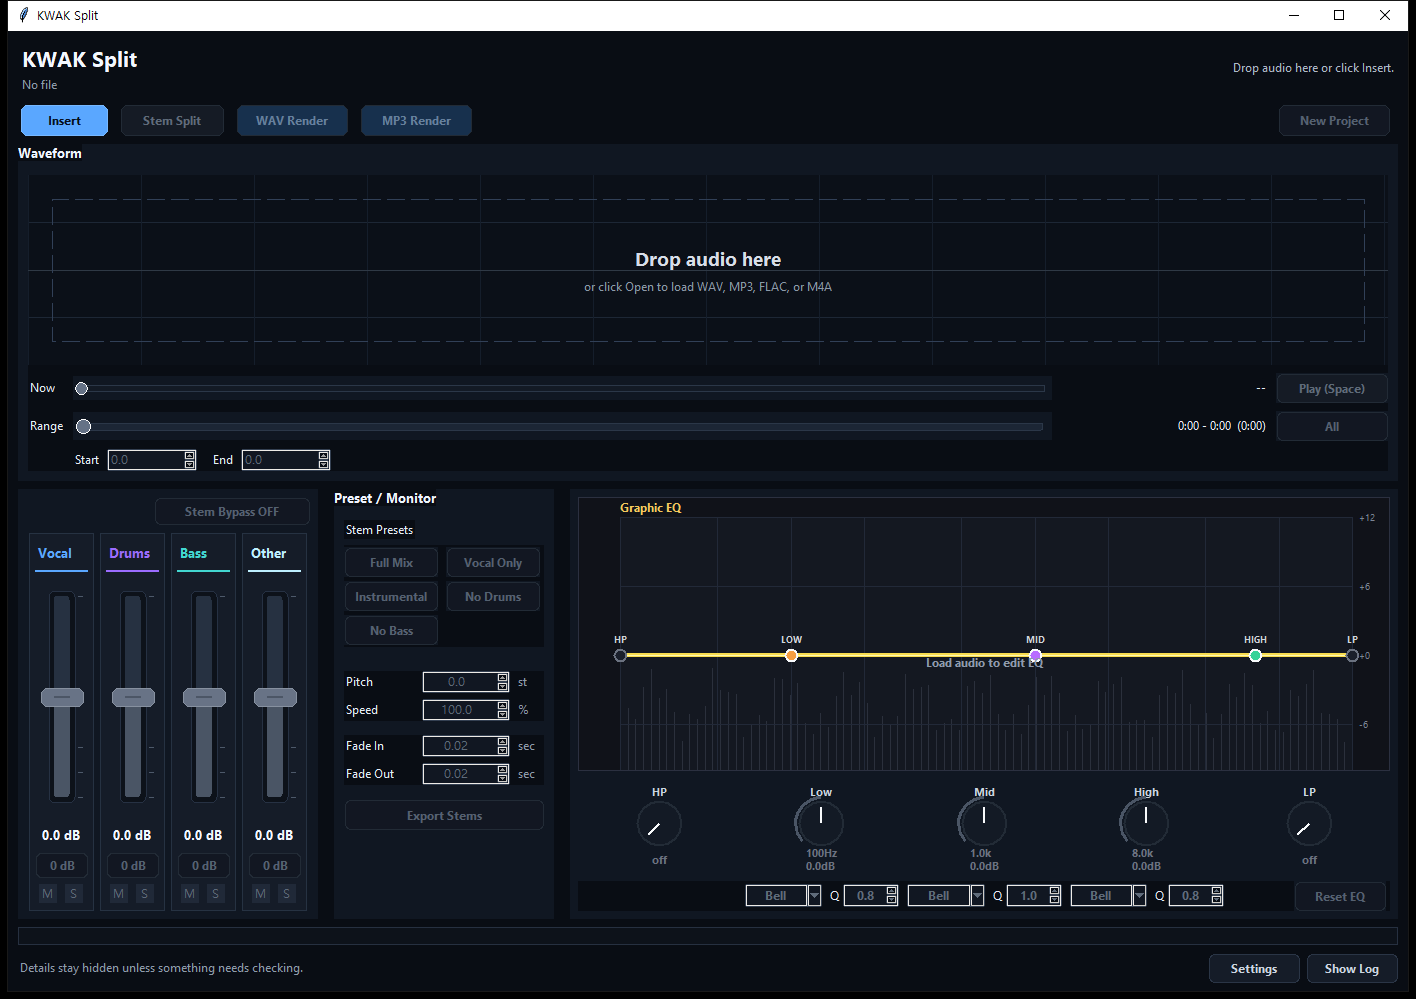
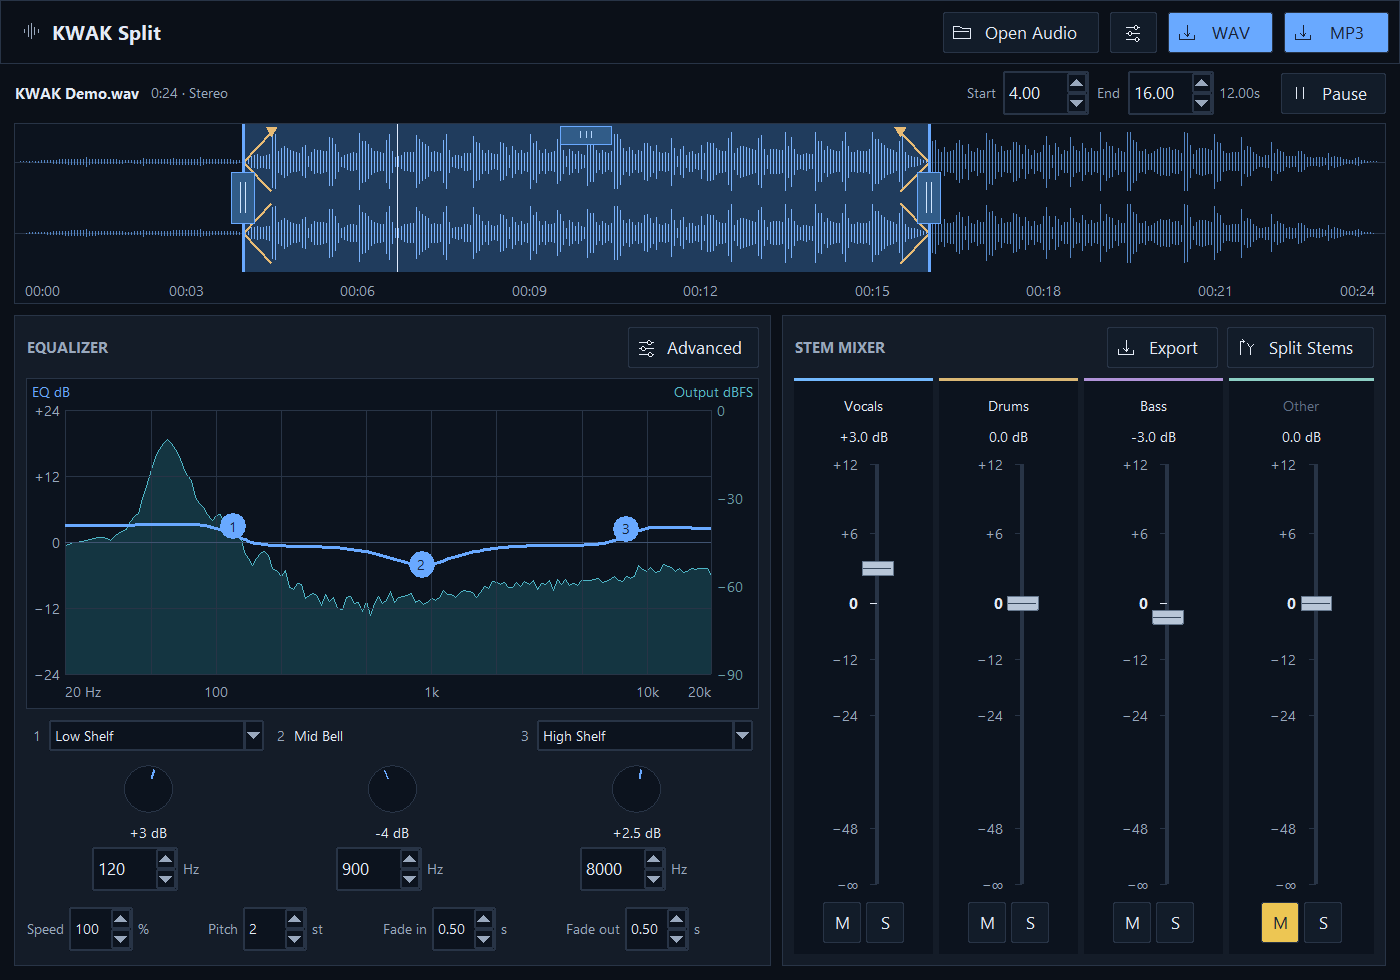
Match promo copy and screenshots to the current UI
Describe the three-band EQ, mute/solo mixer and four-track stem export
instead of five bands, presets, stem bypass and formant preservation, and
replace the old-UI screenshots with captures of the current compact UI.

diff --git a/promo/vercel-site/features.html b/promo/vercel-site/features.html
@@ -42,7 +42,7 @@
   <!-- ===== HERO ===== -->
   <div style="max-width:1200px; margin:0 auto; display:flex; flex-direction:column; align-items:center; text-align:center; padding:72px 32px 60px; gap:20px;">
     <div style="font:700 13px 'Space Mono',monospace; letter-spacing:.16em; border:2px solid #F2EFE6; padding:5px 14px; background:#221F1B;">★ EVERYTHING IN THE BOX</div>
-    <div style="font:400 84px/0.94 'Anton',sans-serif; max-width:1000px;">FOUR STEMS. FIVE BANDS.<br><span data-anim="sticker" style="background:#C8F542; color:#141414; padding:0 14px; box-shadow:6px 6px 0 #F2EFE6; display:inline-block;">ONE CLICK.</span></div>
+    <div style="font:400 84px/0.94 'Anton',sans-serif; max-width:1000px;">FOUR STEMS. THREE BANDS.<br><span data-anim="sticker" style="background:#C8F542; color:#141414; padding:0 14px; box-shadow:6px 6px 0 #F2EFE6; display:inline-block;">ONE CLICK.</span></div>
     <div style="font:500 19px/1.5 'Archivo',sans-serif; color:#A5A199; max-width:660px; margin-top:6px;">KWAK Split is a full stem workshop — separate, EQ, retune, retime, and export, all before you ever hit generate. Here's every knob.</div>
   </div>
 
@@ -62,11 +62,11 @@
       <div style="display:flex; flex-direction:column; gap:16px;">
         <div style="font:700 13px 'Space Mono',monospace; color:#C8F542; letter-spacing:.1em;">01 — SEPARATION</div>
         <div style="font:400 46px/1 'Anton',sans-serif;">STEM SPLIT</div>
-        <div style="font:500 16px/1.6 'Archivo',sans-serif; color:#A5A199; max-width:460px;">One pass pulls your track into four clean stems — vocal, drums, bass, and everything else. Each lands on its own fader, ready to solo, mute, or A/B against the full mix.</div>
+        <div style="font:500 16px/1.6 'Archivo',sans-serif; color:#A5A199; max-width:460px;">One pass pulls your track into four clean stems — vocal, drums, bass, and everything else. Each lands on its own fader with mute and solo, and Export saves all four as separate files.</div>
         <div style="display:flex; gap:10px; flex-wrap:wrap; margin-top:6px;">
           <div style="font:700 12px 'Space Mono',monospace; border:2px solid #F2EFE6; padding:6px 12px;">PER-STEM FADERS</div>
           <div style="font:700 12px 'Space Mono',monospace; border:2px solid #F2EFE6; padding:6px 12px;">MUTE &amp; SOLO</div>
-          <div style="font:700 12px 'Space Mono',monospace; border:2px solid #F2EFE6; padding:6px 12px;">STEM BYPASS A/B</div>
+          <div style="font:700 12px 'Space Mono',monospace; border:2px solid #F2EFE6; padding:6px 12px;">4-TRACK EXPORT</div>
           <div style="font:700 12px 'Space Mono',monospace; border:2px solid #F2EFE6; padding:6px 12px;">ON-DEVICE</div>
         </div>
       </div>
@@ -76,21 +76,21 @@
       </div>
     </div>
 
-    <!-- 02 GRAPHIC EQ (image / text) -->
+    <!-- 02 EQ (image / text) -->
     <div style="display:grid; grid-template-columns:1fr 1fr; gap:56px; align-items:center;">
       <div style="display:flex; flex-direction:column; gap:10px; align-items:center; order:1;">
         <img src="assets/kwak-eq.png" style="width:100%; border:2px solid #F2EFE6; box-shadow:10px 10px 0 #F2EFE6; display:block;"></img>
-        <div style="font:700 11px 'Space Mono',monospace; color:#8A867C; letter-spacing:.08em;">▚ GRAPHIC EQ — HP · LOW · MID · HIGH · LP</div>
+        <div style="font:700 11px 'Space Mono',monospace; color:#8A867C; letter-spacing:.08em;">▚ EQUALIZER — LOW · MID · HIGH</div>
       </div>
       <div style="display:flex; flex-direction:column; gap:16px; order:2;">
         <div style="font:700 13px 'Space Mono',monospace; color:#C8F542; letter-spacing:.1em;">02 — TONE</div>
-        <div style="font:400 46px/1 'Anton',sans-serif;">GRAPHIC EQ</div>
-        <div style="font:500 16px/1.6 'Archivo',sans-serif; color:#A5A199; max-width:460px;">Five movable bands with a live response curve. Carve mud out of a bassline, tame a harsh vocal, or brighten a stem — shape every render before it leaves the app.</div>
+        <div style="font:400 46px/1 'Anton',sans-serif;">3-BAND EQ</div>
+        <div style="font:500 16px/1.6 'Archivo',sans-serif; color:#A5A199; max-width:460px;">Low shelf or high-pass, mid bell, and high shelf or low-pass, with a live response curve over the playing spectrum. Carve mud out of a bassline, tame a harsh vocal, or brighten a stem while it plays.</div>
         <div style="display:flex; gap:10px; flex-wrap:wrap; margin-top:6px;">
           <div style="font:700 12px 'Space Mono',monospace; border:2px solid #F2EFE6; padding:6px 12px;">HP / LP FILTERS</div>
           <div style="font:700 12px 'Space Mono',monospace; border:2px solid #F2EFE6; padding:6px 12px;">BELL &amp; SHELF</div>
           <div style="font:700 12px 'Space Mono',monospace; border:2px solid #F2EFE6; padding:6px 12px;">ADJUSTABLE Q</div>
-          <div style="font:700 12px 'Space Mono',monospace; border:2px solid #F2EFE6; padding:6px 12px;">±12 dB / BAND</div>
+          <div style="font:700 12px 'Space Mono',monospace; border:2px solid #F2EFE6; padding:6px 12px;">±24 dB / BAND</div>
         </div>
       </div>
     </div>
@@ -100,17 +100,16 @@
       <div style="display:flex; flex-direction:column; gap:16px;">
         <div style="font:700 13px 'Space Mono',monospace; color:#C8F542; letter-spacing:.1em;">03 — TIME &amp; KEY</div>
         <div style="font:400 46px/1 'Anton',sans-serif;">PITCH &amp; SPEED</div>
-        <div style="font:500 16px/1.6 'Archivo',sans-serif; color:#A5A199; max-width:460px;">Move key and tempo independently. Nudge a hook up two semitones, or slow a loop down to half-time — no chipmunk, no artifacts. Formant-aware so vocals stay human.</div>
+        <div style="font:500 16px/1.6 'Archivo',sans-serif; color:#A5A199; max-width:460px;">Move key and tempo independently. Nudge a hook up two semitones, or slow a loop down to half-time without the chipmunk effect.</div>
         <div style="display:flex; gap:10px; flex-wrap:wrap; margin-top:6px;">
-          <div style="font:700 12px 'Space Mono',monospace; border:2px solid #F2EFE6; padding:6px 12px;">± SEMITONES</div>
-          <div style="font:700 12px 'Space Mono',monospace; border:2px solid #F2EFE6; padding:6px 12px;">TEMPO %</div>
+          <div style="font:700 12px 'Space Mono',monospace; border:2px solid #F2EFE6; padding:6px 12px;">± 12 SEMITONES</div>
+          <div style="font:700 12px 'Space Mono',monospace; border:2px solid #F2EFE6; padding:6px 12px;">50–200% SPEED</div>
           <div style="font:700 12px 'Space Mono',monospace; border:2px solid #F2EFE6; padding:6px 12px;">INDEPENDENT</div>
-          <div style="font:700 12px 'Space Mono',monospace; border:2px solid #F2EFE6; padding:6px 12px;">FORMANT-SAFE</div>
         </div>
       </div>
       <div style="display:flex; flex-direction:column; gap:10px; align-items:center;">
-        <img src="assets/kwak-monitor.png" style="width:240px; max-width:100%; border:2px solid #F2EFE6; box-shadow:10px 10px 0 #C8F542; display:block;"></img>
-        <div style="font:700 11px 'Space Mono',monospace; color:#8A867C; letter-spacing:.08em;">▚ MONITOR — PRESETS · PITCH · SPEED · FADES</div>
+        <img src="assets/kwak-timing.png" style="width:100%; border:2px solid #F2EFE6; box-shadow:10px 10px 0 #C8F542; display:block;"></img>
+        <div style="font:700 11px 'Space Mono',monospace; color:#8A867C; letter-spacing:.08em;">▚ CONTROLS — SPEED · PITCH · FADES</div>
       </div>
     </div>
 
@@ -118,7 +117,7 @@
     <div style="display:grid; grid-template-columns:1fr 1fr; gap:56px; align-items:center;">
       <div style="display:flex; flex-direction:column; gap:10px; align-items:center; order:1;">
         <img src="assets/kwak-waveform.png" style="width:100%; border:2px solid #F2EFE6; box-shadow:10px 10px 0 #F2EFE6; display:block;"></img>
-        <div style="font:700 11px 'Space Mono',monospace; color:#8A867C; letter-spacing:.08em;">▚ WAVEFORM — NOW / RANGE SCRUB</div>
+        <div style="font:700 11px 'Space Mono',monospace; color:#8A867C; letter-spacing:.08em;">▚ WAVEFORM — RANGE HANDLES · ZOOM</div>
       </div>
       <div style="display:flex; flex-direction:column; gap:16px; order:2;">
         <div style="font:700 13px 'Space Mono',monospace; color:#C8F542; letter-spacing:.1em;">04 — OUTPUT</div>
@@ -135,19 +134,18 @@
 
   </div>
 
-  <!-- ===== PRESETS ===== -->
+  <!-- ===== STEM EXPORT ===== -->
   <div style="max-width:1200px; margin:0 auto; padding:0 32px 88px;">
     <div style="border:2px solid #F2EFE6; background:#221F1B; padding:34px 36px; display:flex; flex-direction:column; gap:20px;">
       <div style="display:flex; justify-content:space-between; align-items:baseline; gap:24px; flex-wrap:wrap;">
-        <div style="font:400 34px/1 'Anton',sans-serif;">ONE-CLICK PRESETS</div>
-        <div style="font:500 14px 'Archivo',sans-serif; color:#A5A199; max-width:420px;">Skip the fader dance. Hit a preset and the mix is ready to render.</div>
+        <div style="font:400 34px/1 'Anton',sans-serif;">EXPORT ALL FOUR STEMS</div>
+        <div style="font:500 14px 'Archivo',sans-serif; color:#A5A199; max-width:420px;">Stem Mixer → Export saves each stem as its own WAV or MP3, with your faders, EQ, speed, pitch and fades applied.</div>
       </div>
       <div style="display:flex; align-items:center; gap:12px; flex-wrap:wrap;">
-        <div style="font:700 13px 'Space Mono',monospace; border:2px solid #F2EFE6; background:#161412; padding:8px 16px;">FULL MIX</div>
-        <div style="font:700 13px 'Space Mono',monospace; color:#141414; border:2px solid #141414; background:#C8F542; padding:8px 16px; box-shadow:3px 3px 0 #F2EFE6;">VOCAL ONLY</div>
-        <div style="font:700 13px 'Space Mono',monospace; border:2px solid #F2EFE6; background:#161412; padding:8px 16px;">INSTRUMENTAL</div>
-        <div style="font:700 13px 'Space Mono',monospace; border:2px solid #F2EFE6; background:#161412; padding:8px 16px;">NO DRUMS</div>
-        <div style="font:700 13px 'Space Mono',monospace; border:2px solid #F2EFE6; background:#161412; padding:8px 16px;">NO BASS</div>
+        <div style="font:700 13px 'Space Mono',monospace; color:#141414; border:2px solid #141414; background:#C8F542; padding:8px 16px; box-shadow:3px 3px 0 #F2EFE6;">VOCALS</div>
+        <div style="font:700 13px 'Space Mono',monospace; border:2px solid #F2EFE6; background:#161412; padding:8px 16px;">DRUMS</div>
+        <div style="font:700 13px 'Space Mono',monospace; border:2px solid #F2EFE6; background:#161412; padding:8px 16px;">BASS</div>
+        <div style="font:700 13px 'Space Mono',monospace; border:2px solid #F2EFE6; background:#161412; padding:8px 16px;">OTHER</div>
       </div>
     </div>
   </div>
@@ -160,7 +158,7 @@
         <div style="display:flex; justify-content:space-between; gap:20px; padding:18px 24px; border-bottom:2px solid #221F1B;"><div style="font:700 13px 'Space Mono',monospace; color:#8A867C; letter-spacing:.06em;">INPUT FORMATS</div><div style="font:700 15px 'Space Mono',monospace;">WAV · MP3 · FLAC · M4A</div></div>
         <div style="display:flex; justify-content:space-between; gap:20px; padding:18px 24px; border-bottom:2px solid #221F1B;"><div style="font:700 13px 'Space Mono',monospace; color:#8A867C; letter-spacing:.06em;">OUTPUT FORMATS</div><div style="font:700 15px 'Space Mono',monospace;">WAV · MP3</div></div>
         <div style="display:flex; justify-content:space-between; gap:20px; padding:18px 24px; border-bottom:2px solid #221F1B;"><div style="font:700 13px 'Space Mono',monospace; color:#8A867C; letter-spacing:.06em;">STEMS</div><div style="font:700 15px 'Space Mono',monospace;">4 — VOCAL / DRUMS / BASS / OTHER</div></div>
-        <div style="display:flex; justify-content:space-between; gap:20px; padding:18px 24px; border-bottom:2px solid #221F1B;"><div style="font:700 13px 'Space Mono',monospace; color:#8A867C; letter-spacing:.06em;">EQ</div><div style="font:700 15px 'Space Mono',monospace;">5 BANDS + HP / LP</div></div>
+        <div style="display:flex; justify-content:space-between; gap:20px; padding:18px 24px; border-bottom:2px solid #221F1B;"><div style="font:700 13px 'Space Mono',monospace; color:#8A867C; letter-spacing:.06em;">EQ</div><div style="font:700 15px 'Space Mono',monospace;">3 BANDS · SHELF / BELL · HP / LP</div></div>
         <div style="display:flex; justify-content:space-between; gap:20px; padding:18px 24px; border-bottom:2px solid #221F1B;"><div style="font:700 13px 'Space Mono',monospace; color:#8A867C; letter-spacing:.06em;">PROCESSING</div><div style="font:700 15px 'Space Mono',monospace;">100% ON-DEVICE</div></div>
         <div style="display:flex; justify-content:space-between; gap:20px; padding:18px 24px; border-bottom:2px solid #221F1B;"><div style="font:700 13px 'Space Mono',monospace; color:#8A867C; letter-spacing:.06em;">PLATFORMS</div><div style="font:700 15px 'Space Mono',monospace;">WINDOWS 10 / 11 (64-BIT)</div></div>
         <div style="display:flex; justify-content:space-between; gap:20px; padding:18px 24px;"><div style="font:700 13px 'Space Mono',monospace; color:#8A867C; letter-spacing:.06em;">PRICE</div><div style="font:700 15px 'Space Mono',monospace; color:#C8F542;">FREE — FOREVER</div></div>

diff --git a/promo/vercel-site/index.html b/promo/vercel-site/index.html
@@ -78,8 +78,8 @@
       </div>
       <div style="background:#221F1B; padding:30px; display:flex; flex-direction:column; gap:12px;">
         <div style="font:700 13px 'Space Mono',monospace; color:#C8F542;">02</div>
-        <div style="font:400 26px 'Anton',sans-serif;">GRAPHIC EQ</div>
-        <div style="font:500 15px/1.55 'Archivo',sans-serif; color:#A5A199;">Five bands with HP/LP filters. Shape each render before it leaves the app.</div>
+        <div style="font:400 26px 'Anton',sans-serif;">3-BAND EQ</div>
+        <div style="font:500 15px/1.55 'Archivo',sans-serif; color:#A5A199;">Low, mid and high bands with switchable HP/LP filters and a live curve. Shape each render before it leaves the app.</div>
       </div>
       <div style="background:#221F1B; padding:30px; display:flex; flex-direction:column; gap:12px;">
         <div style="font:700 13px 'Space Mono',monospace; color:#C8F542;">03</div>
@@ -93,12 +93,11 @@
       </div>
     </div>
     <div style="display:flex; align-items:center; gap:12px; flex-wrap:wrap;">
-      <div style="font:700 12px 'Space Mono',monospace; letter-spacing:.1em; color:#8A867C;">1-CLICK PRESETS →</div>
-      <div style="font:700 13px 'Space Mono',monospace; border:2px solid #F2EFE6; background:#221F1B; padding:6px 14px;">FULL MIX</div>
-      <div style="font:700 13px 'Space Mono',monospace; color:#141414; border:2px solid #141414; background:#C8F542; padding:6px 14px; box-shadow:3px 3px 0 #F2EFE6;">VOCAL ONLY</div>
-      <div style="font:700 13px 'Space Mono',monospace; border:2px solid #F2EFE6; background:#221F1B; padding:6px 14px;">INSTRUMENTAL</div>
-      <div style="font:700 13px 'Space Mono',monospace; border:2px solid #F2EFE6; background:#221F1B; padding:6px 14px;">NO DRUMS</div>
-      <div style="font:700 13px 'Space Mono',monospace; border:2px solid #F2EFE6; background:#221F1B; padding:6px 14px;">NO BASS</div>
+      <div style="font:700 12px 'Space Mono',monospace; letter-spacing:.1em; color:#8A867C;">STEM MIXER →</div>
+      <div style="font:700 13px 'Space Mono',monospace; border:2px solid #F2EFE6; background:#221F1B; padding:6px 14px;">PER-STEM FADERS</div>
+      <div style="font:700 13px 'Space Mono',monospace; color:#141414; border:2px solid #141414; background:#C8F542; padding:6px 14px; box-shadow:3px 3px 0 #F2EFE6;">SOLO</div>
+      <div style="font:700 13px 'Space Mono',monospace; border:2px solid #F2EFE6; background:#221F1B; padding:6px 14px;">MUTE</div>
+      <div style="font:700 13px 'Space Mono',monospace; border:2px solid #F2EFE6; background:#221F1B; padding:6px 14px;">4-TRACK EXPORT</div>
       <a href="features.html" style="font:700 13px 'Space Mono',monospace; text-decoration:none; color:#C8F542; margin-left:auto;" style-hover="color:#D9FF66;">SEE ALL FEATURES →</a>
     </div>
   </div>

diff --git a/promo/vercel-site/download.html b/promo/vercel-site/download.html
@@ -126,10 +126,10 @@
         <div style="font:400 40px/1 'Anton',sans-serif;">WHAT'S IN THE DOWNLOAD</div>
         <div style="display:flex; gap:12px; flex-wrap:wrap;">
           <div style="font:700 13px 'Space Mono',monospace; border:2px solid #F2EFE6; padding:8px 16px;">4-STEM SPLIT</div>
-          <div style="font:700 13px 'Space Mono',monospace; border:2px solid #F2EFE6; padding:8px 16px;">5-BAND GRAPHIC EQ</div>
+          <div style="font:700 13px 'Space Mono',monospace; border:2px solid #F2EFE6; padding:8px 16px;">3-BAND EQ</div>
           <div style="font:700 13px 'Space Mono',monospace; border:2px solid #F2EFE6; padding:8px 16px;">PITCH &amp; SPEED</div>
           <div style="font:700 13px 'Space Mono',monospace; border:2px solid #F2EFE6; padding:8px 16px;">WAV / MP3 EXPORT</div>
-          <div style="font:700 13px 'Space Mono',monospace; border:2px solid #F2EFE6; padding:8px 16px;">1-CLICK PRESETS</div>
+          <div style="font:700 13px 'Space Mono',monospace; border:2px solid #F2EFE6; padding:8px 16px;">4-TRACK STEM EXPORT</div>
           <div style="font:700 13px 'Space Mono',monospace; color:#141414; border:2px solid #141414; background:#C8F542; padding:8px 16px; box-shadow:3px 3px 0 #F2EFE6;">FREE UPDATES</div>
         </div>
       </div>

diff --git a/promo/vercel-site/faq.html b/promo/vercel-site/faq.html
@@ -85,7 +85,7 @@
       </details>
       <details style="border-top:2px solid #221F1B; border-bottom:2px solid #221F1B;">
         <summary style="cursor:pointer; display:flex; justify-content:space-between; align-items:center; gap:16px; padding:22px 4px; font:700 18px 'Space Mono',monospace; color:#F2EFE6;"><span>Can I get just the vocal or just the instrumental?</span><span style="font:400 30px 'Anton',sans-serif; color:#C8F542; line-height:1;"><span class="faq-plus">+</span><span class="faq-minus">–</span></span></summary>
-        <div style="padding:0 4px 24px; font:500 16px/1.65 'Archivo',sans-serif; color:#A5A199;">Yep. Solo a single stem, or hit a one-click preset: Vocal Only, Instrumental, No Drums, or No Bass. Then render just that.</div>
+        <div style="padding:0 4px 24px; font:500 16px/1.65 'Archivo',sans-serif; color:#A5A199;">Yep. Solo the vocal, or mute it for an instrumental, then export. Stem Mixer → Export also saves all four stems as separate files.</div>
       </details>
     </div>
 
